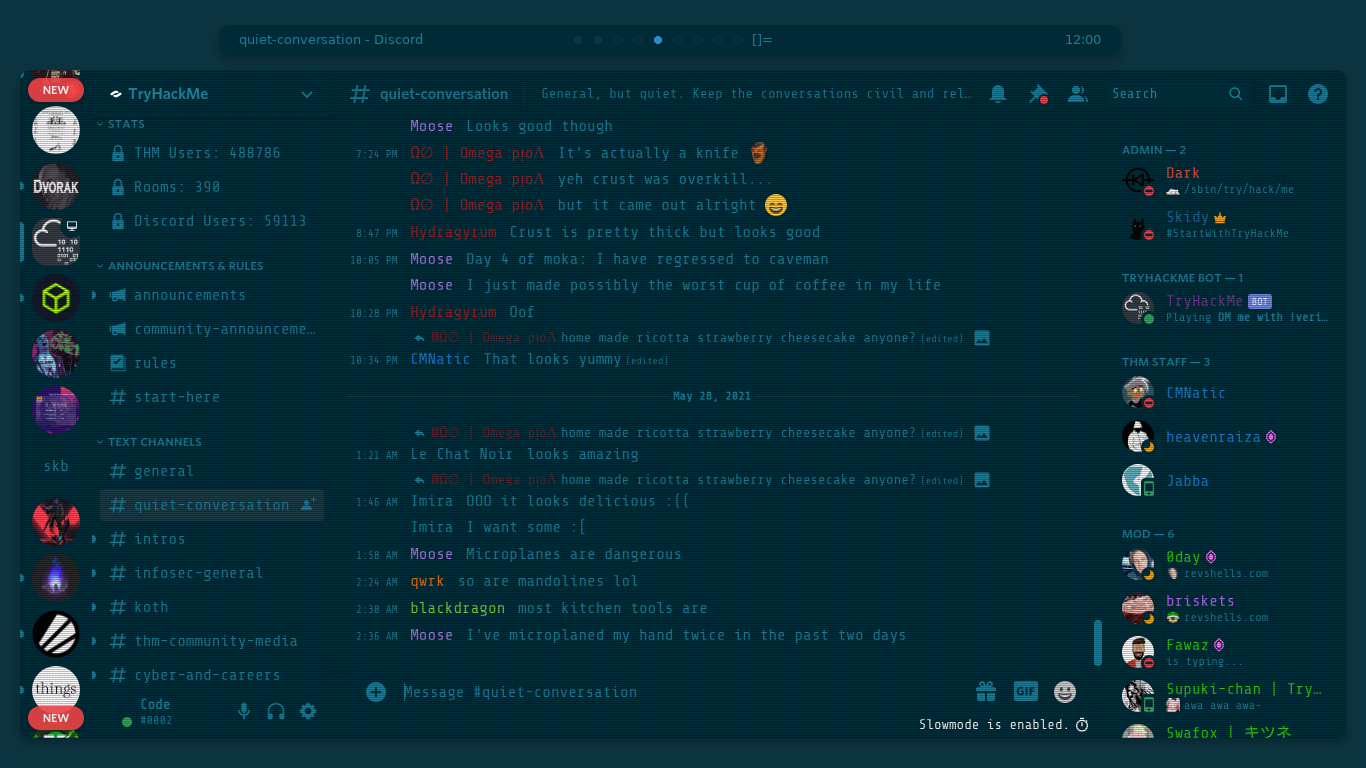
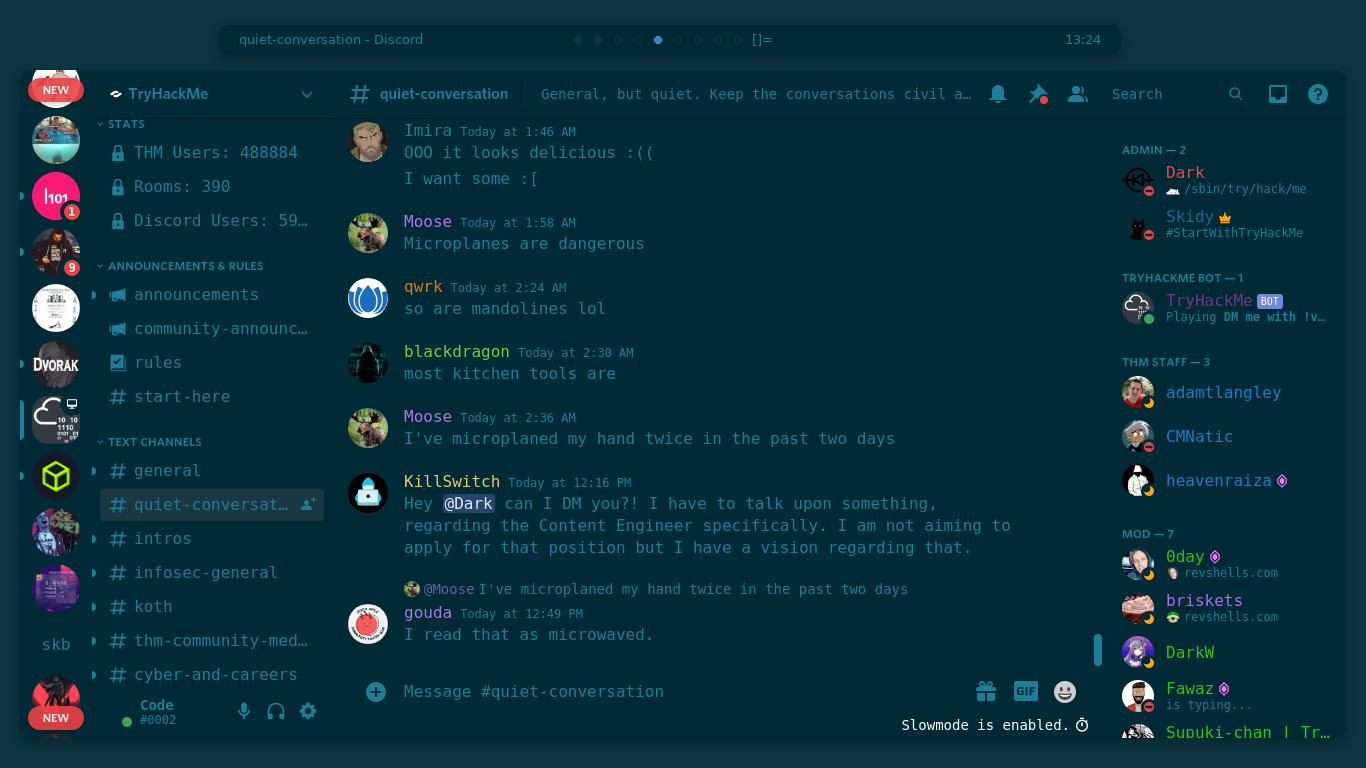
fixed screenshots

diff --git a/Solarized-Dark-Terminal.theme.css b/Solarized-Dark-Terminal.theme.css
@@ -5,17 +5,7 @@
  * @source https://raw.githubusercontent.com/p1xxxel/solarized-terminal-discord/main/css/main.css
  * @website https://github.com/p1xxxel/solarized-terminal-discord
  * @description A theme to make discord look like solarized dark terminal
- * @authorId 
+ * @authorId 397009883062337557
 */
 
-@import url('https://raw.githubusercontent.com/p1xxxel/solarized-terminal-discord/main/main.css');
-
-/* TO CUSTOMIZE THE THEME, REPLACE THE VARIABLES BELOW*/
-
-
-:root {
-  --background: #002b36 !important;
-  --text-color: #1c7e97 !important;
-  --highlight: var(--text-color) !important;
-}
-
+@import url('https://gitcdn.xyz/repo/p1xxxel/solarized-terminal-discord/main/css/main.css');

diff --git a/css/main.css b/css/main.css
@@ -1,11 +1,11 @@
-@import url('https://fonts.googleapis.com/css2?family=Share+Tech+Mono&display=swap');
+@import url('https://fonts.googleapis.com/css2?family=Ubuntu+Mono&display=swap');
 @import url("https://monstrousdev.github.io/themes/addons/user-tags.css");
 
 :root, .theme-light {
   --rgb-highlight: 4, 217, 255;
   --highlight: var(--text-color);
-  --background: #000900;
-  --text-color: #4AEF98;
+  --background: #002b36;
+  --text-color: #1c7e97;
   --close-button: var(--dnd-color) !important;
   --online-color: #39ff14;
   --afk-color: #FFFF33;
